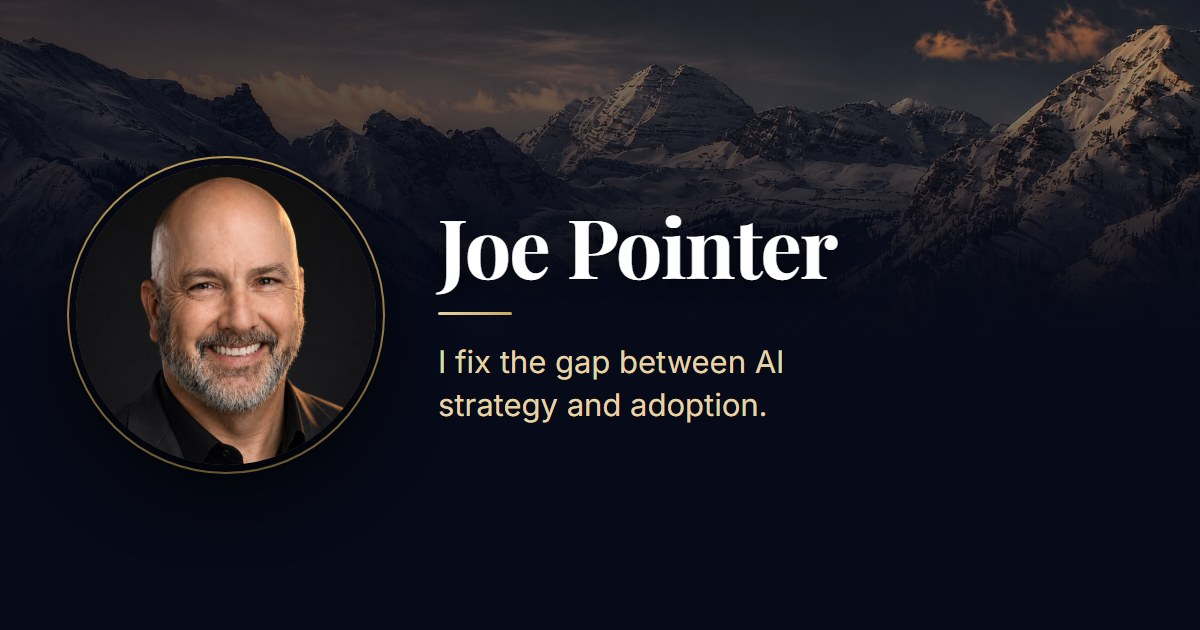
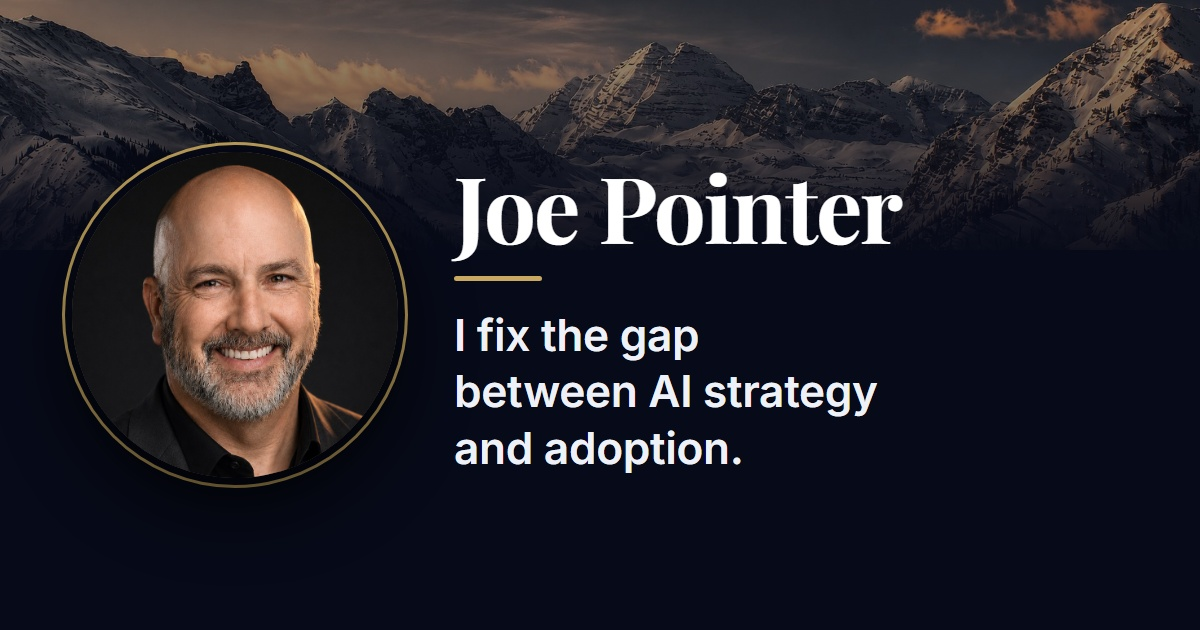
Social card: rebuild for the size it is actually viewed at
The first version failed in LinkedIn's Post Inspector. The tagline was
31px Inter 400 in gold, sitting over the mountain band. LinkedIn renders
the card at 552px, so that text arrived around 14px, on a busy
background, after JPEG compression of a dark gradient. It was close to
unreadable.

Changes, all aimed at surviving the downscale:
- Tagline goes to 44px, weight 600, near-white on flat ink instead of
  gold on mountains. A solid scrim sits under the whole text block, so
  nothing the reader has to decode crosses the photograph.
- The mountain band moves up and shrinks to 270px, staying decorative
- Name to 92px, portrait to 326px, rule thicker
- JPEG quality 88 to 95. Dark gradients band badly at 88 and LinkedIn
  re-compresses on top of whatever we ship.

Bumped to ?v=4 rather than ?v=3, because ?v=3 has already been fetched
and cached by Post Inspector.

Square variant rebuilt to match.

Changed region(s): [[0.0, 0.0, 1.0, 0.7841], [0.925, 0.2413, 1.0, 0.3921], [0.0308, 0.4222, 0.0617, 0.573]]

diff --git a/index.html b/index.html
@@ -43,7 +43,7 @@
     <meta property="og:url" content="https://joepointer.com/">
     <meta property="og:title" content="Joe Pointer | AI Adoption & Workforce Transformation Leader">
     <meta property="og:description" content="AI adoption and workforce transformation leader. Led AI career platform rolled out to 16,000+ associates. Bridging AI capability and real workforce change.">
-    <meta property="og:image" content="https://joepointer.com/images/social-share-wide.jpg?v=3">
+    <meta property="og:image" content="https://joepointer.com/images/social-share-wide.jpg?v=4">
     <meta property="og:image:width" content="1200">
     <meta property="og:image:height" content="630">
     <meta property="og:image:type" content="image/jpeg">
@@ -54,7 +54,7 @@
     <meta name="twitter:url" content="https://joepointer.com/">
     <meta name="twitter:title" content="Joe Pointer | AI Adoption & Workforce Transformation Leader">
     <meta name="twitter:description" content="AI adoption and workforce transformation leader. Led AI career platform rolled out to 16,000+ associates.">
-    <meta name="twitter:image" content="https://joepointer.com/images/social-share-wide.jpg?v=3">
+    <meta name="twitter:image" content="https://joepointer.com/images/social-share-wide.jpg?v=4">
     <meta name="twitter:image:alt" content="Joe Pointer, AI Adoption and Workforce Transformation, available now, joepointer.com">
 
     <!-- Schema.org Structured Data -->
